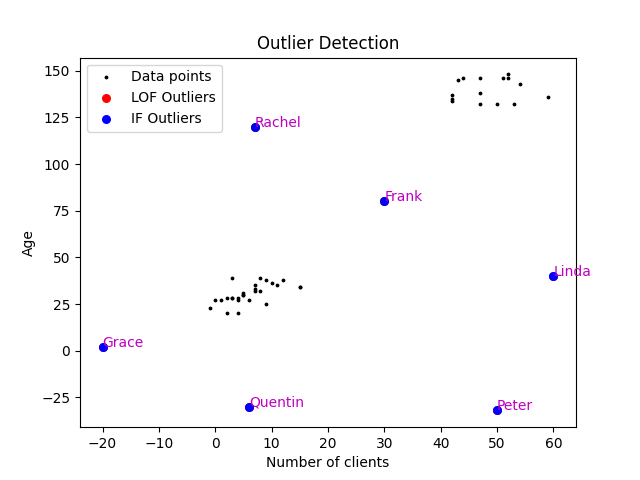
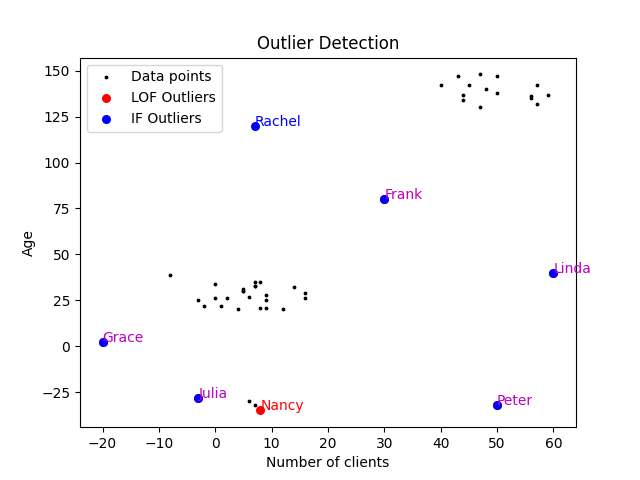
aaaaaaaa

diff --git a/LOF/SKLearnLocalOutlierFactor.py b/LOF/SKLearnLocalOutlierFactor.py
@@ -11,18 +11,18 @@ def generate_data(g):
     # Generate data
     g.addV('Person').property('name', 'Alice').property('age', 30).property('nb_client', 5).next()
     g.addV('Person').property('name', 'Bob').property('age', 27).property('nb_client', 6).next()
-    g.addV('Person').property('name', 'Charlie').property('age', 32).property('nb_client', 7).next()
-    g.addV('Person').property('name', 'Diana').property('age', 39).property('nb_client', 8).next()
+    g.addV('Person').property('name', 'Charlie').property('age', -32).property('nb_client', 7).next()
+    g.addV('Person').property('name', 'Diana').property('age', 39).property('nb_client', -8).next()
     g.addV('Person').property('name', 'Eve').property('age', 20).property('nb_client', 4).next()
     g.addV('Person').property('name', 'Frank').property('age', 80).property('nb_client', 30).next()
     g.addV('Person').property('name', 'Grace').property('age', 2).property('nb_client', -20).next()
     g.addV('Person').property('name', 'Helen').property('age', 25).property('nb_client', 9).next()
     g.addV('Person').property('name', 'Ivan').property('age', 33).property('nb_client', 7).next()
-    g.addV('Person').property('name', 'Julia').property('age', 28).property('nb_client', 3).next()
+    g.addV('Person').property('name', 'Julia').property('age', -28).property('nb_client', -3).next()
     g.addV('Person').property('name', 'Kevin').property('age', 31).property('nb_client', 5).next()
     g.addV('Person').property('name', 'Linda').property('age', 40).property('nb_client', 60).next()
     g.addV('Person').property('name', 'Michael').property('age', 35).property('nb_client', 7).next()
-    g.addV('Person').property('name', 'Nancy').property('age', 32).property('nb_client', 8).next()
+    g.addV('Person').property('name', 'Nancy').property('age', -35).property('nb_client', 8).next()
     g.addV('Person').property('name', 'Olivia').property('age', 30).property('nb_client', 5).next()
     g.addV('Person').property('name', 'Peter').property('age', -32).property('nb_client', 50).next()
     g.addV('Person').property('name', 'Quentin').property('age', -30).property('nb_client', 6).next()
@@ -54,13 +54,14 @@ X = [[v['nb_client'][0], v['age'][0]] for v in vertices]
 
 # Perform LOF analysis
 n_neighbors = min(10, len(vertices) - 1)  # Adjust the value based on your needs
-lof = LocalOutlierFactor(n_neighbors=n_neighbors, contamination=0.12)
+contamination = 0.12  # Adjust the value based on your needs
+lof = LocalOutlierFactor(n_neighbors=n_neighbors, contamination=contamination)
 y_pred = lof.fit_predict(X)
 lof_scores = -lof.negative_outlier_factor_
 
 # Perform Isolation Forest analysis
 n_estimators = 100  # Adjust the value based on your needs
-isolation_forest = IsolationForest(n_estimators=n_estimators, contamination=0.12)
+isolation_forest = IsolationForest(n_estimators=n_estimators, contamination=contamination)
 isolation_forest.fit(X)
 if_scores = isolation_forest.decision_function(X)
 
